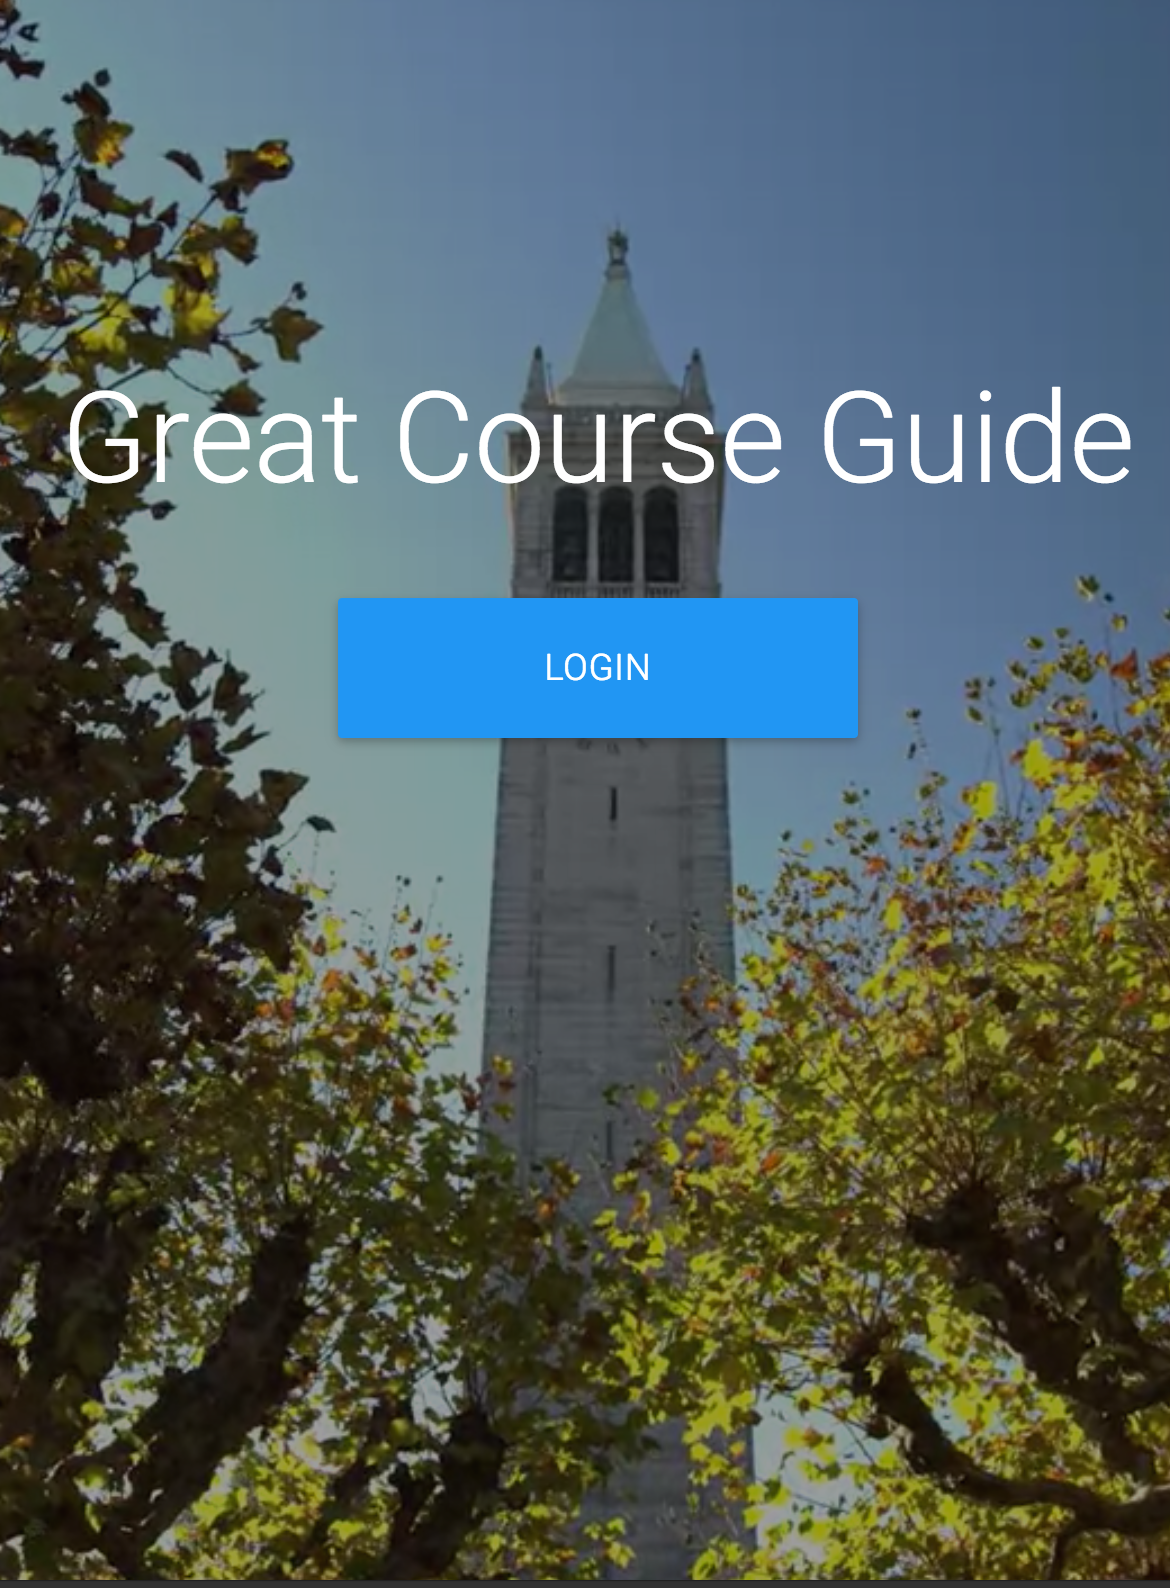
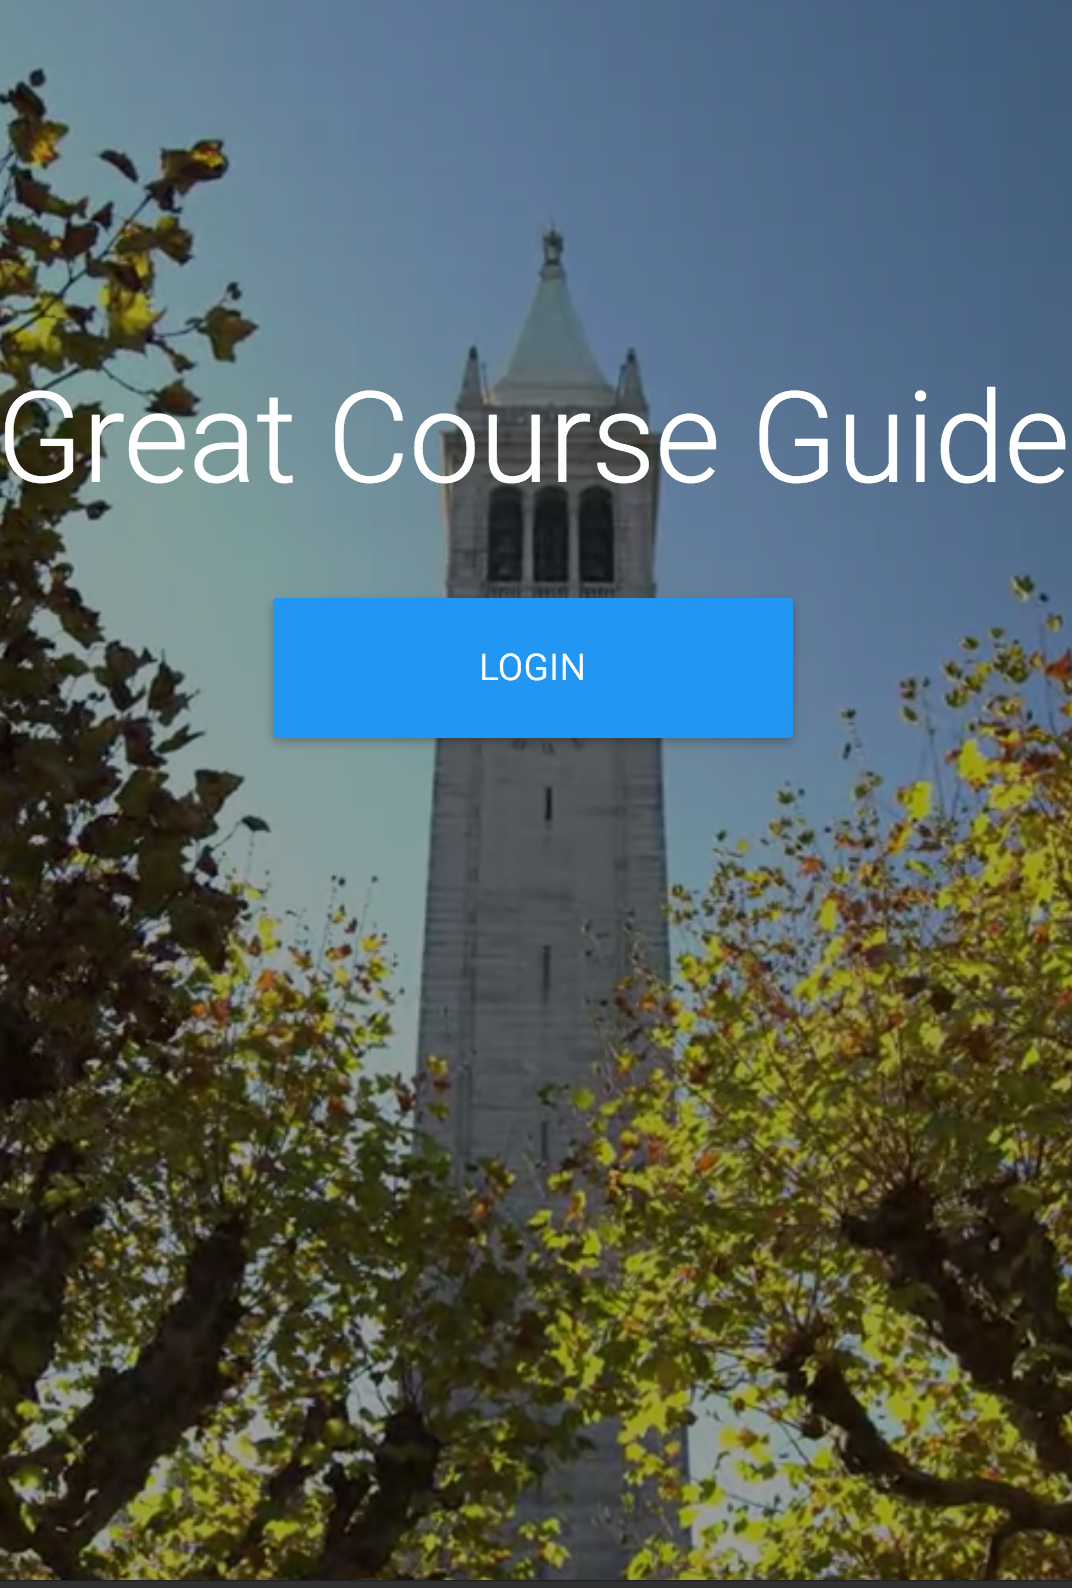
made images more mobile-friendly and smaller

diff --git a/css/projects-page.css b/css/projects-page.css
@@ -49,6 +49,10 @@
   transform: translateY(-50%);
 }
 
+.project-slide, .card, .card-reveal, .container, .info-cards {
+  -webkit-tap-highlight-color: rgba(255, 255, 255, 0);
+}
+
 @media all and (max-width: 600px) {
   .project-slide:not(.slick-active) {
     opacity: 0.8;
